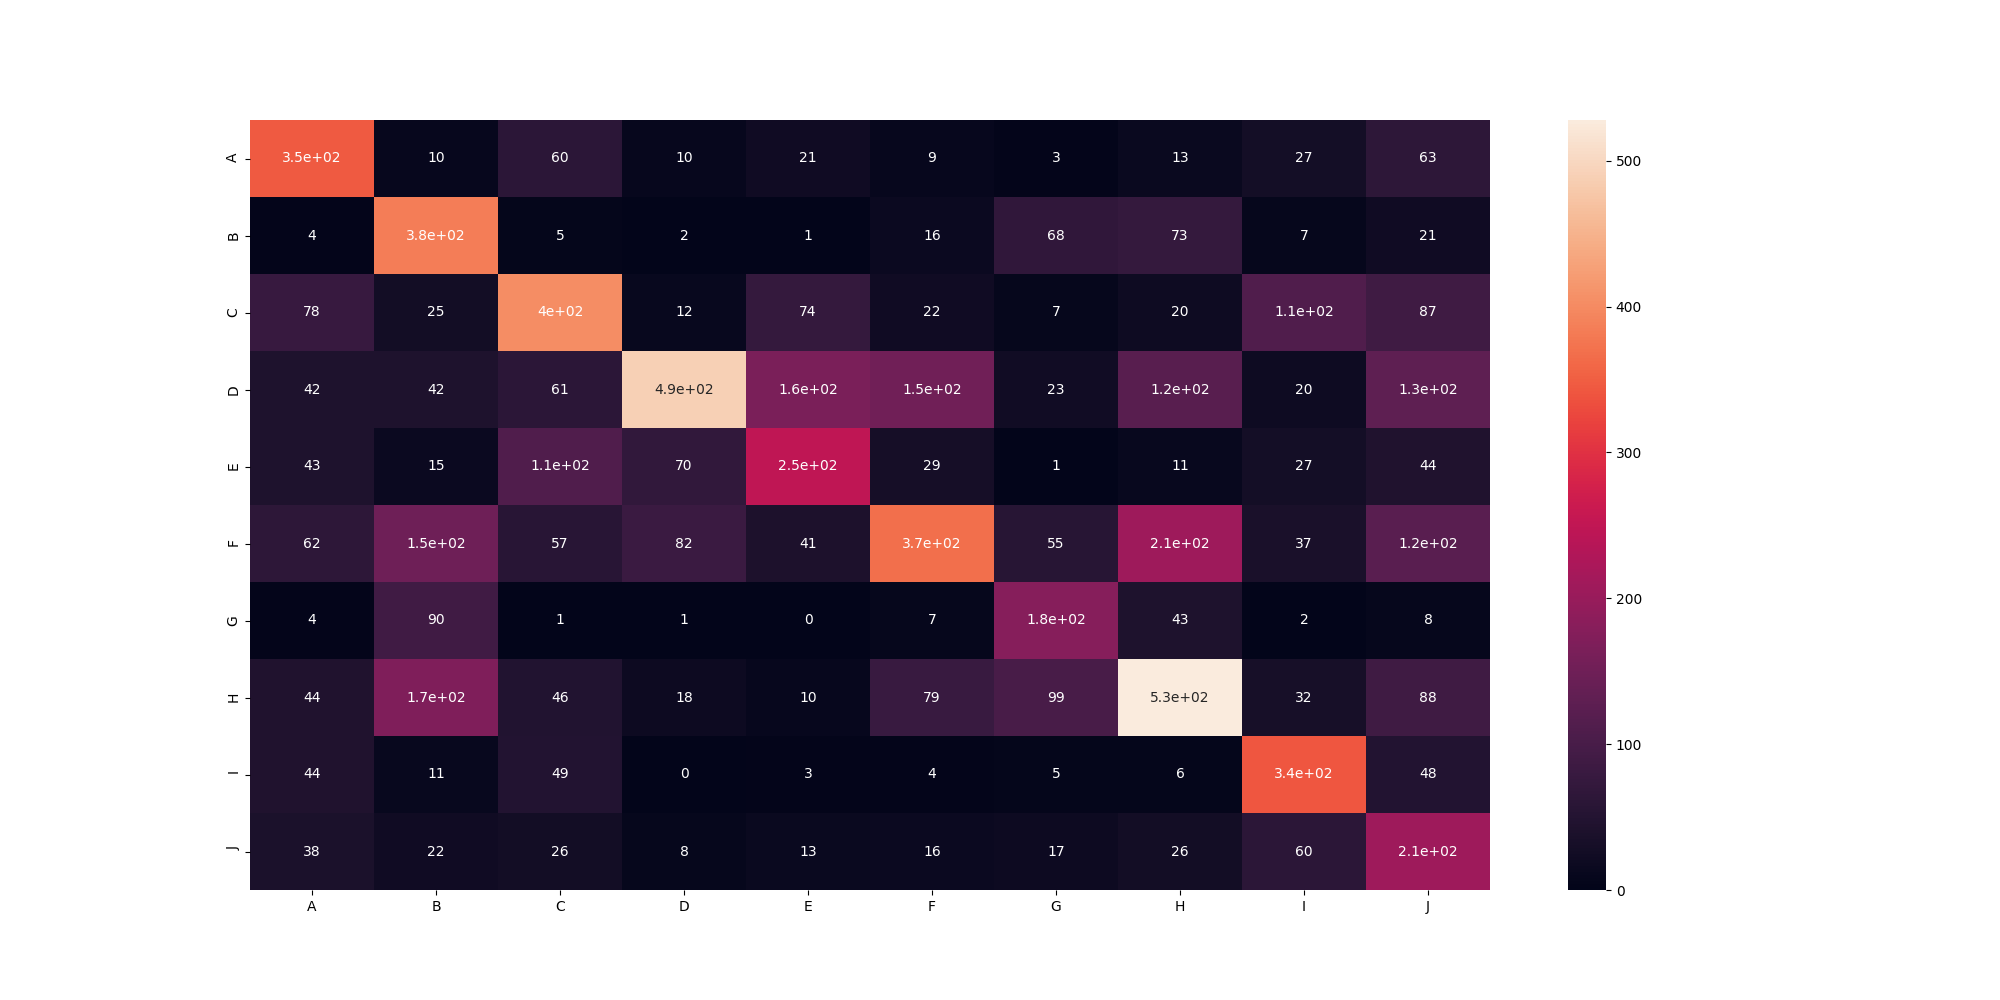
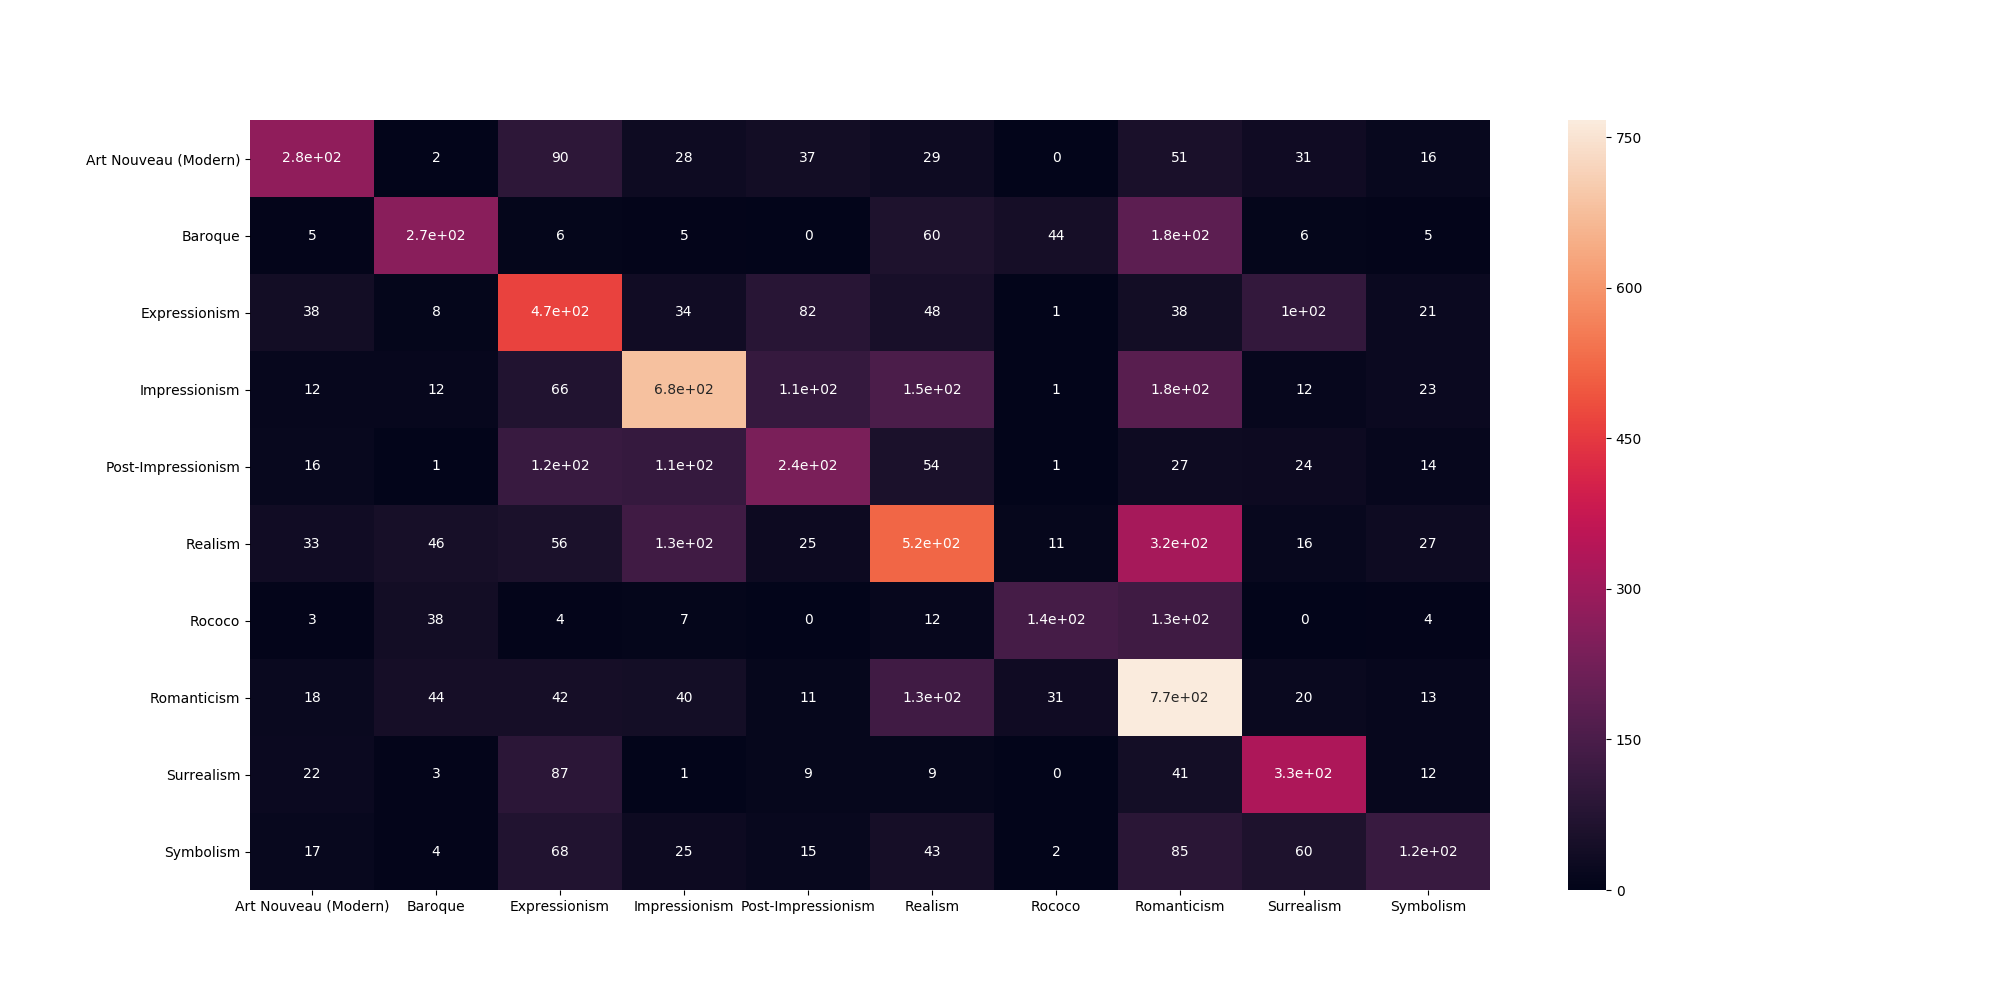
adding data aug and 10 label confusion matrix plots

diff --git a/predict.py b/predict.py
@@ -23,6 +23,12 @@ import torch.optim as optim
 import os
 from preprocess import makeFileNameAndStylePairs
 
+WEIGHTS_PATH = "models/pytorch/weights3_resnet50_10_classes.h5"
+PRECISION_RECALL_PATH = ""
+CONFUSION_MATRIX_PLOT_PATH = ""
+CLASSIFICATION_REPORT_PATH = ""
+CONFUSION_MATRIX_PLOT_PATH = "results/output_resnet50_10_layers.png"
+
 def get_validation_images():
     labels_dict = makeFileNameAndStylePairs()
     validation_file_names = []
@@ -43,6 +49,7 @@ def get_validation_images():
                     validation_file_labels.append(labels_dict[subfile])
                     validation_file_numeric_labels.append(dir_index)
             dir_index += 1
+        break
     return validation_file_names, validation_file_numeric_labels, labels
 
 normalize = transforms.Normalize(mean=[0.485, 0.456, 0.406],
@@ -91,7 +98,7 @@ model.fc = nn.Sequential(
                nn.Linear(2048, 128),
                nn.ReLU(inplace=True),
                nn.Linear(128, 10)).to(device)
-model.load_state_dict(torch.load('models/pytorch/weights4_data_aug.h5'))
+model.load_state_dict(torch.load(WEIGHTS_PATH))
 model.eval()
 
 
@@ -142,24 +149,27 @@ print("Percentage: " + str(float(count)/len(y_pred)))
 
 results = precision_recall_fscore_support(y_labels, y_pred, average = "weighted")
 conf_mat = confusion_matrix(y_labels, y_pred)
-print(results)
-print(results, file = open("results/precision_recall4_resnet50_data_aug.txt", 'w'))
-print(conf_mat)
-print(conf_mat, file = open("results/confusion_matrix4_resnet50_data_aug.txt", 'w'))
-print(classification_report(y_labels, y_pred))
-print(classification_report(y_labels, y_pred), file = open("results/classification_report4_resnet50_data_aug.txt", 'w'))
+#print(results)
+#print(results, file = open(PRECISION_RECALL_PATH, 'w'))
+#print(conf_mat)
+#print(conf_mat, file = open("results/CONFUSION_MATRIX_PATH, 'w'))
+#print(classification_report(y_labels, y_pred))
+#print(classification_report(y_labels, y_pred), file = open(CLASSICATION_REPORT_PATH, 'w'))
 
 
 import seaborn as sn
 import pandas as pd
 import matplotlib.pyplot as plt
 array = conf_mat
-df_cm = pd.DataFrame(array, index = [i for i in "ABCDEFGHIJ"],
-                                       columns = [i for i in "ABCDEFGHIJ"])
+
+
+
+df_cm = pd.DataFrame(array, index = [i for i in label_names],
+                                       columns = [i for i in label_names])
 plt.figure(figsize = (20, 10))
 sn_plot = sn.heatmap(df_cm, annot=True)
 fig = sn_plot.get_figure()
-fig.savefig("results/output_resnet50_10_layers.png")
+fig.savefig(CONFUSION_MATRIX_PLOT_PATH)
 
 
 
